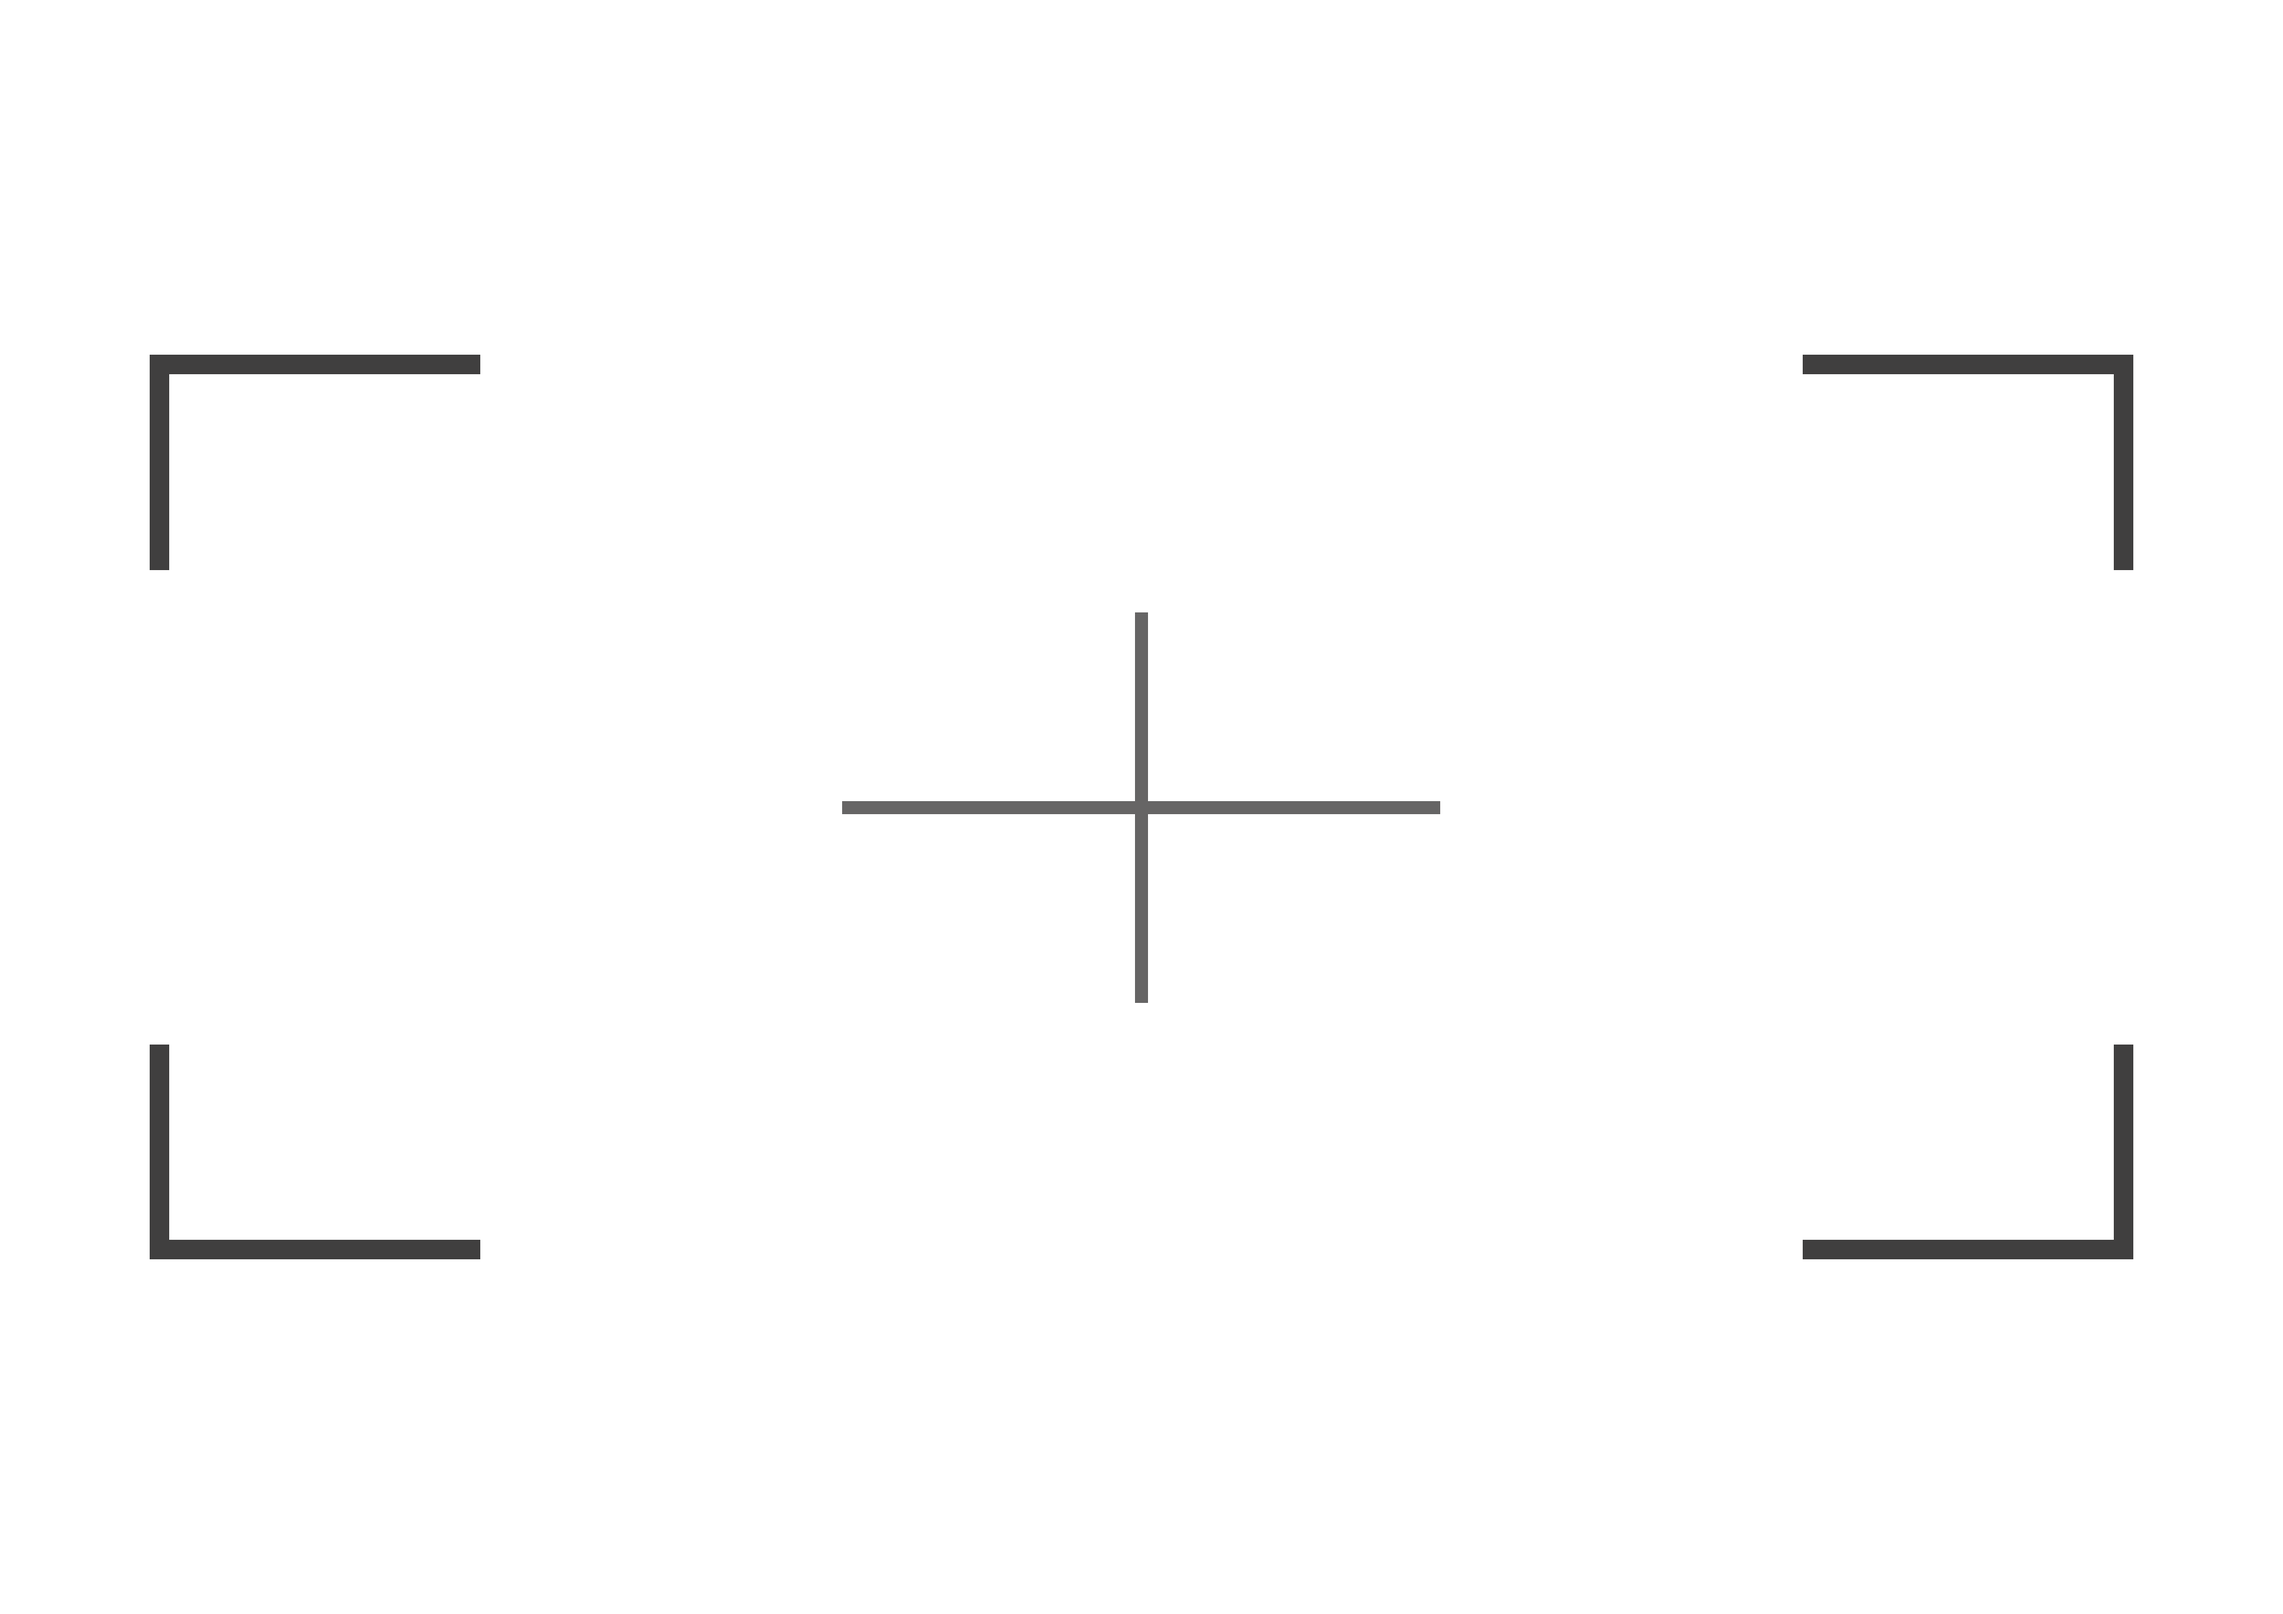
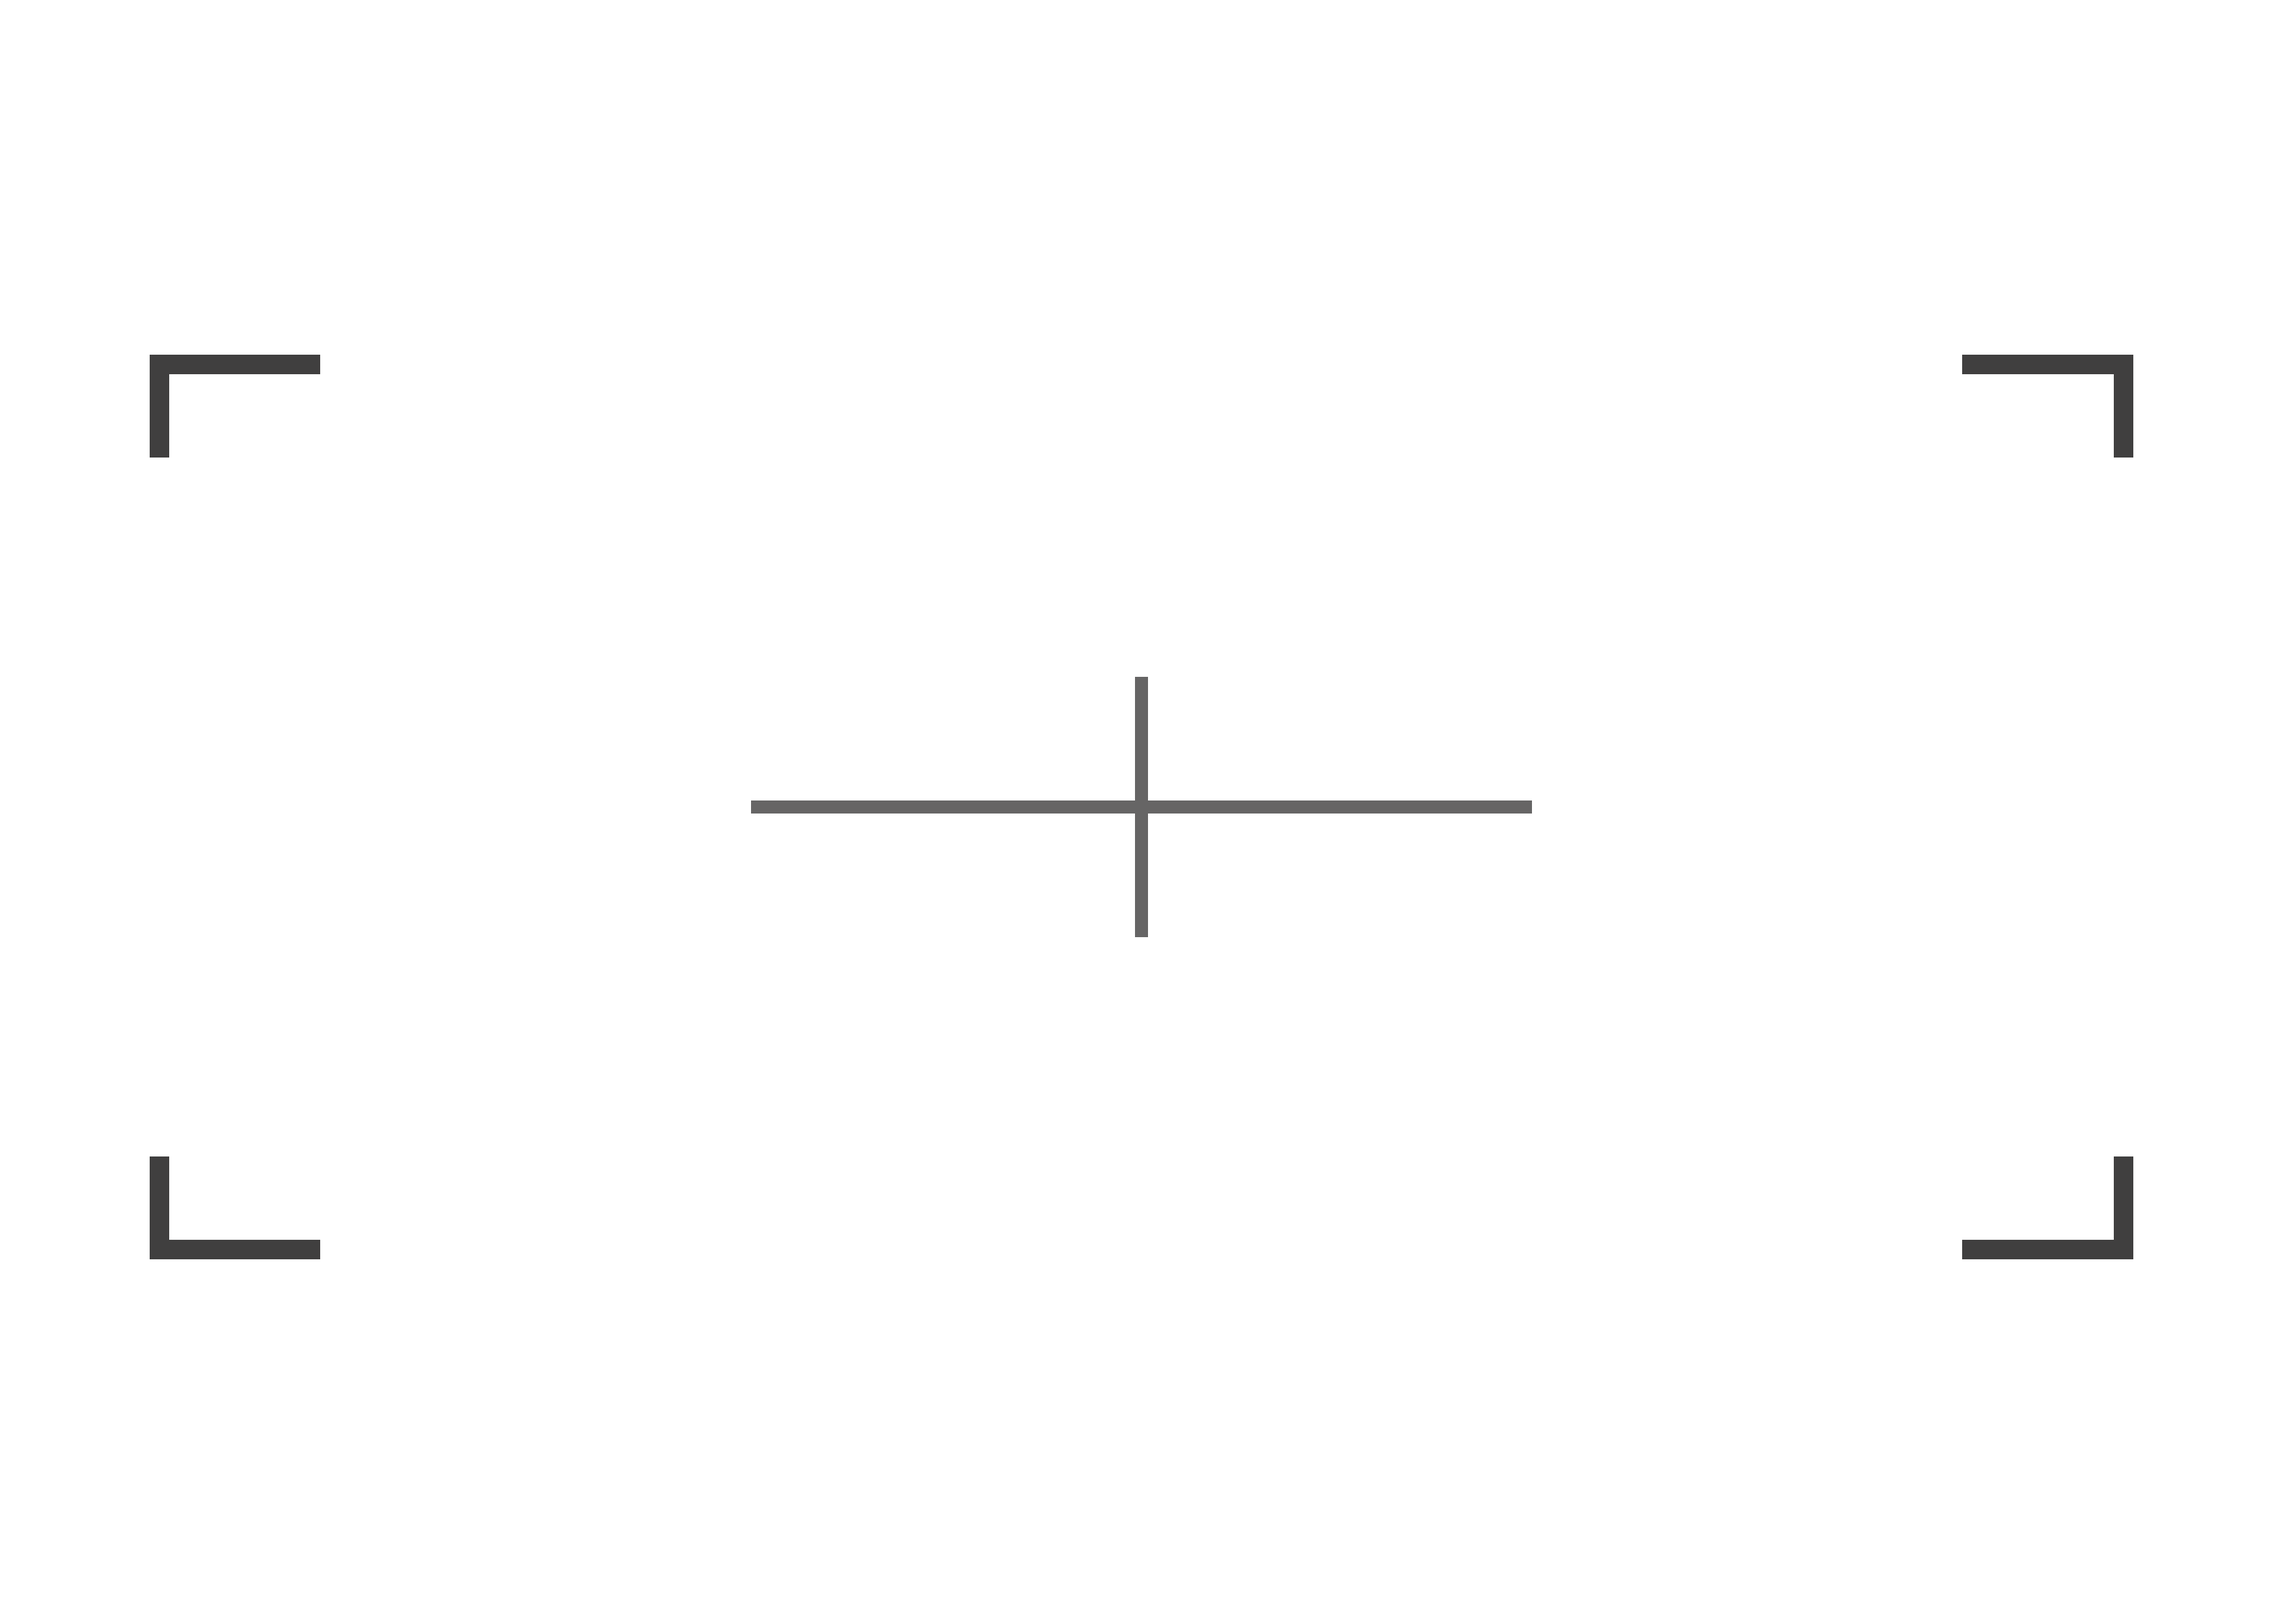
Added bg blur for camera

diff --git a/Barcode_scanner/sass/style.sass b/Barcode_scanner/sass/style.sass
@@ -37,6 +37,7 @@ button
     height: 5rem
     font-size: 1.7rem
     text-transform: lowercase
+    color: black
 
 .camera
     background-color: #9aabf7
@@ -81,6 +82,7 @@ input
     max-width: 550px
     height: 5rem
     font-size: 2.4rem
+    color: #2e2f36
     box-shadow: 0px 1px 5px grey
     background-color: white
     letter-spacing: 4px
@@ -101,30 +103,32 @@ input
         transition-duration: 0.1s
         opacity: 0
 
-video
-    z-index: 0
+.camera_zone
+    overflow: hidden
     bottom: 0
     left: 0
     opacity: 0
     transition-duration: 0.4s
-    background: url("../img/loading.png") center center / 20vh no-repeat
     &.camera_on
         transition-duration: 0.3s
         opacity: 1
 
+video
+    z-index: 0
+    background: url("../img/loading.png") center center / 20vh no-repeat
+
 .scan_icon
-    z-index: 1
-    bottom: 0
-    left: 0
-    opacity: 0
-    transition-duration: 0.4s
+    z-index: 2
     background: url("../img/scan_icon.png") center center / 45% no-repeat, url("../img/scan_icon_big.png") center center / 65% no-repeat
-    &.camera_on
-        transition-duration: 0.3s
-        opacity: 1
+
+.blur
+    z-index: 1
+    background: url("../img/blur_bg.png") center center / 105% no-repeat
 
 @media ( max-height: 530px )
     .stream_cont
         top: 57vh
     .scan_icon
         background: url("../img/scan_icon.png") center 40% / 50% no-repeat, url("../img/scan_icon_big.png") center 40% / 70% no-repeat
+    .blur
+        background: url("../img/blur_bg.png") center 47.5% / 113% no-repeat

diff --git a/Barcode_scanner/css/style.css b/Barcode_scanner/css/style.css
@@ -107,6 +107,7 @@ button {
   height: 5rem;
   font-size: 1.7rem;
   text-transform: lowercase;
+  color: black;
 }
 
 .camera {
@@ -155,6 +156,7 @@ input {
   max-width: 550px;
   height: 5rem;
   font-size: 2.4rem;
+  color: #2e2f36;
   box-shadow: 0px 1px 5px grey;
   background-color: white;
   letter-spacing: 4px;
@@ -179,30 +181,31 @@ input {
   opacity: 0;
 }
 
-video {
-  z-index: 0;
+.camera_zone {
+  overflow: hidden;
   bottom: 0;
   left: 0;
   opacity: 0;
   transition-duration: 0.4s;
-  background: url("../img/loading.png") center center/20vh no-repeat;
 }
-video.camera_on {
+.camera_zone.camera_on {
   transition-duration: 0.3s;
   opacity: 1;
 }
 
+video {
+  z-index: 0;
+  background: url("../img/loading.png") center center/20vh no-repeat;
+}
+
 .scan_icon {
-  z-index: 1;
-  bottom: 0;
-  left: 0;
-  opacity: 0;
-  transition-duration: 0.4s;
+  z-index: 2;
   background: url("../img/scan_icon.png") center center/45% no-repeat, url("../img/scan_icon_big.png") center center/65% no-repeat;
 }
-.scan_icon.camera_on {
-  transition-duration: 0.3s;
-  opacity: 1;
+
+.blur {
+  z-index: 1;
+  background: url("../img/blur_bg.png") center center/105% no-repeat;
 }
 
 @media (max-height: 530px) {
@@ -211,5 +214,8 @@ video.camera_on {
   }
   .scan_icon {
     background: url("../img/scan_icon.png") center 40%/50% no-repeat, url("../img/scan_icon_big.png") center 40%/70% no-repeat;
+  }
+  .blur {
+    background: url("../img/blur_bg.png") center 47.5%/113% no-repeat;
   }
 }

diff --git a/Barcode_scanner/js/script.js b/Barcode_scanner/js/script.js
@@ -7,6 +7,7 @@ let input = document.querySelector('input');
 let input_zone = document.querySelector('.input_zone');
 let stream_cont = document.querySelector('.stream_cont');
 let scan_icon = document.querySelector('.scan_icon');
+let blur_cover = document.querySelector('.blur');
 
 
 camera_button.addEventListener('click', camera_access);
@@ -17,7 +18,7 @@ let options = {
     video: {
     width: 1380, //height
     height: 1920, //width
-    // facingMode: {exact: "environment"},
+    facingMode: {exact: "environment"},
     }
 };
 
@@ -62,7 +63,8 @@ function open_camera(){
     video.classList.add('active');
     stream_start();
     video.classList.add('camera_on');
-    // scan_icon.classList.add('camera_on');
+    scan_icon.classList.add('camera_on');
+    blur_cover.classList.add('camera_on');
 };
 
 function toggle_camera(){
@@ -70,10 +72,12 @@ function toggle_camera(){
         Quagga.pause();
         video.classList.remove('camera_on');
         scan_icon.classList.remove('camera_on');
+        blur_cover.classList.remove('camera_on');
     }else {
         Quagga.start();
         video.classList.add('camera_on');
         scan_icon.classList.add('camera_on');
+        blur_cover.classList.add('camera_on');
     };
 };
 

diff --git a/Barcode_scanner/index.html b/Barcode_scanner/index.html
@@ -13,7 +13,7 @@
     <!-- описание страницы -->
     <meta property="og:description" content="Онлайн сканер штрих-кодов для сотрудников">
     <!-- ссылка на изображение, которое будет публиковаться в записи -->
-    <meta property="og:image" content="img/logo_mini.png">
+    <meta property="og:image" content="img/logo.png">
     <!-- ссылка на текущую страницу -->
     <meta property="og:url" content="https://stroypr-scanner.netlify.app/">
     <!-- название сайта -->
@@ -32,8 +32,9 @@
             </div>
         </div>
         <div class="stream_cont cont_size">
-            <video class="cont_size" autoplay playsinline muted></video>
-            <div class="scan_icon cont_size"></div>
+            <video class="cont_size camera_zone" autoplay playsinline muted></video>
+            <div class="scan_icon cont_size camera_zone"></div>
+            <div class="blur cont_size camera_zone"></div>
         </div>
     </div>
     <script src="js/quagga.min.js"></script>
